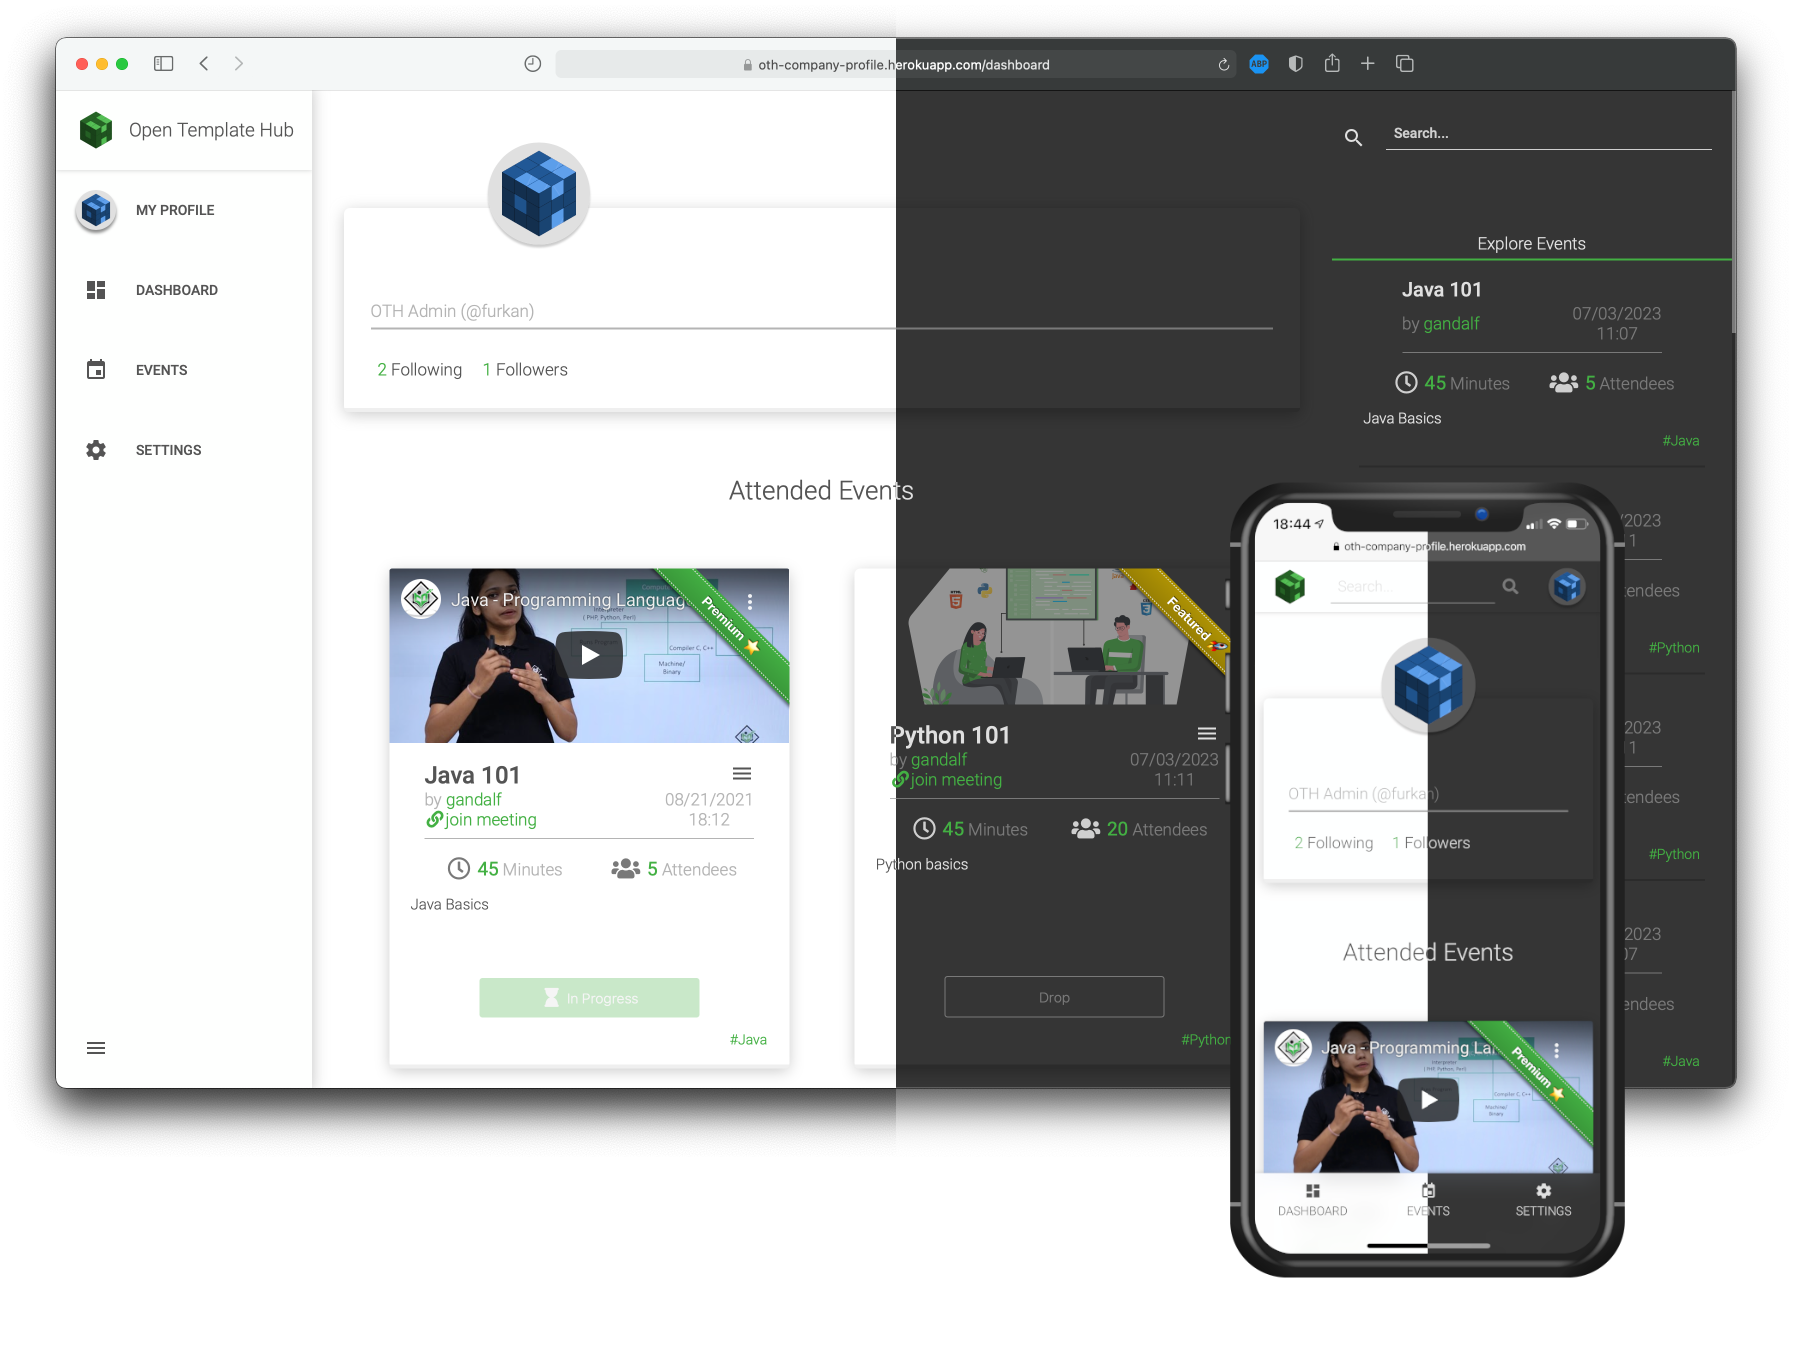
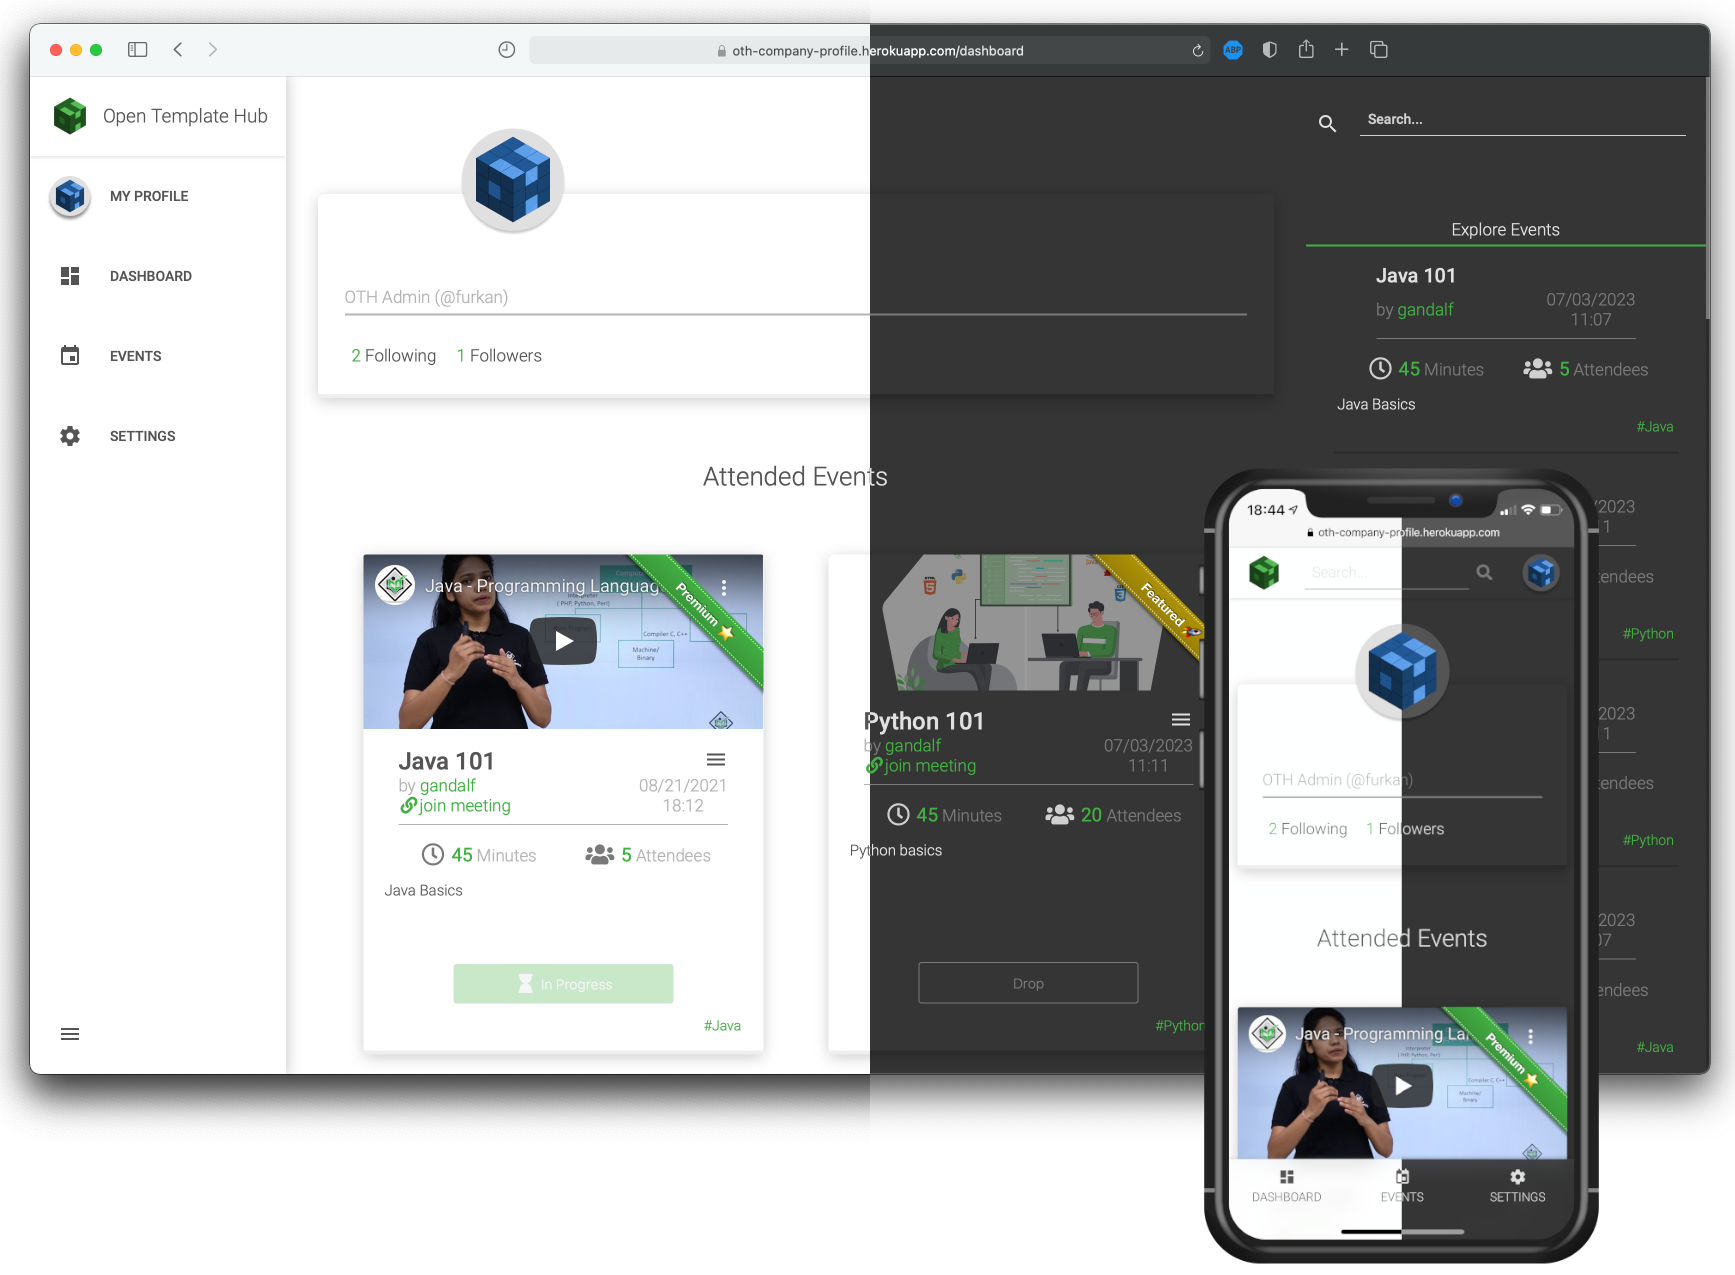
ui fixes

diff --git a/src/app/component/nav/dashboard/dashboard-layout-side-nav/dashboard-layout-side-nav.component.scss b/src/app/component/nav/dashboard/dashboard-layout-side-nav/dashboard-layout-side-nav.component.scss
@@ -50,11 +50,7 @@
 
 .side-nav a .brand-logo {
   margin-left: 20px;
-  margin-right: 10px;
-}
-
-.side-nav .brand h2 {
-  margin: 0 0 0 3px;
+  margin-right: 20px;
 }
 
 .side-nav-closed .side-nav {

diff --git a/src/app/page/settings-layout/edit-theme/edit-theme.component.scss b/src/app/page/settings-layout/edit-theme/edit-theme.component.scss
@@ -19,6 +19,7 @@
   .section.horizontal {
     flex-direction: row;
     justify-content: flex-start;
+    flex-wrap: wrap;
   }
 
   .section.horizontal app-button1 {
